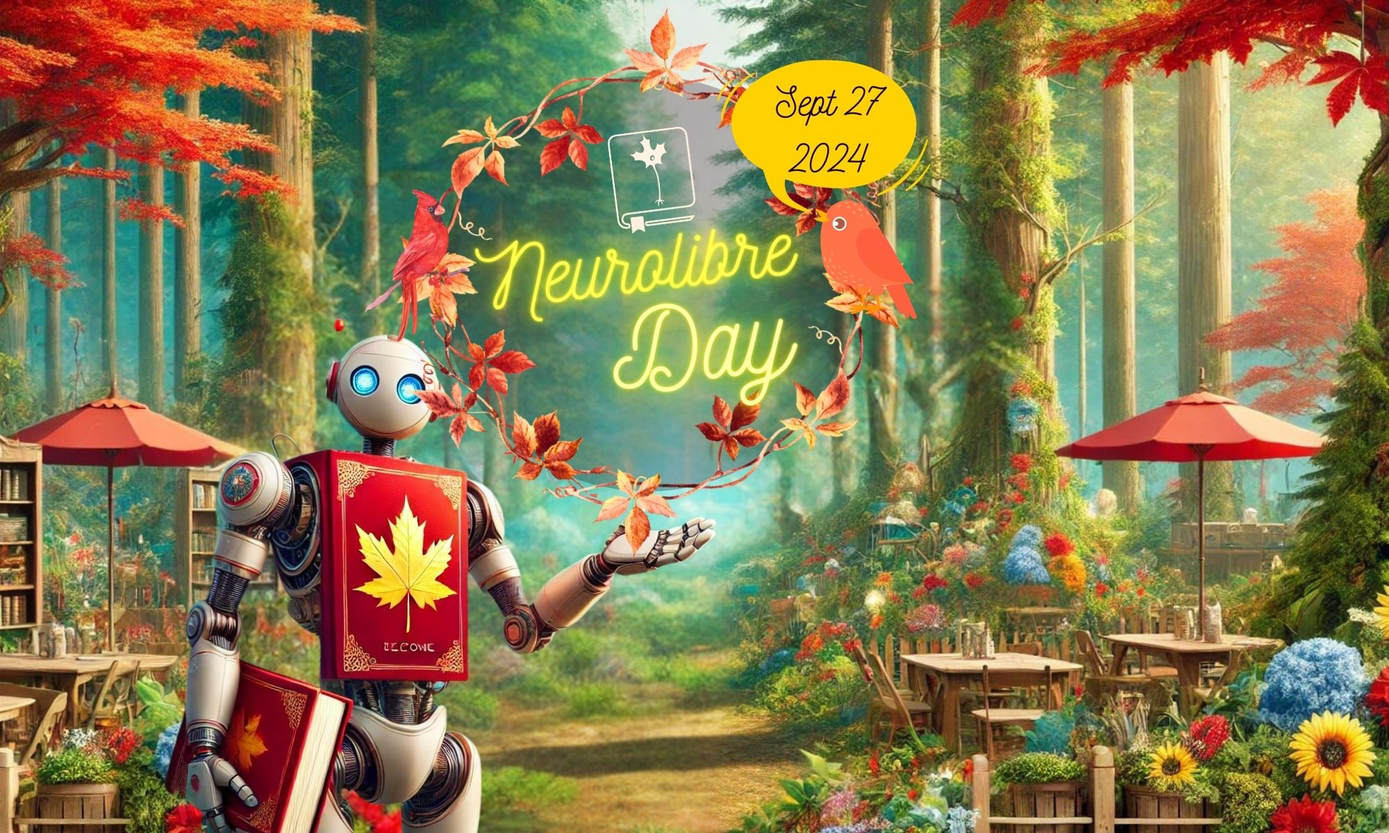
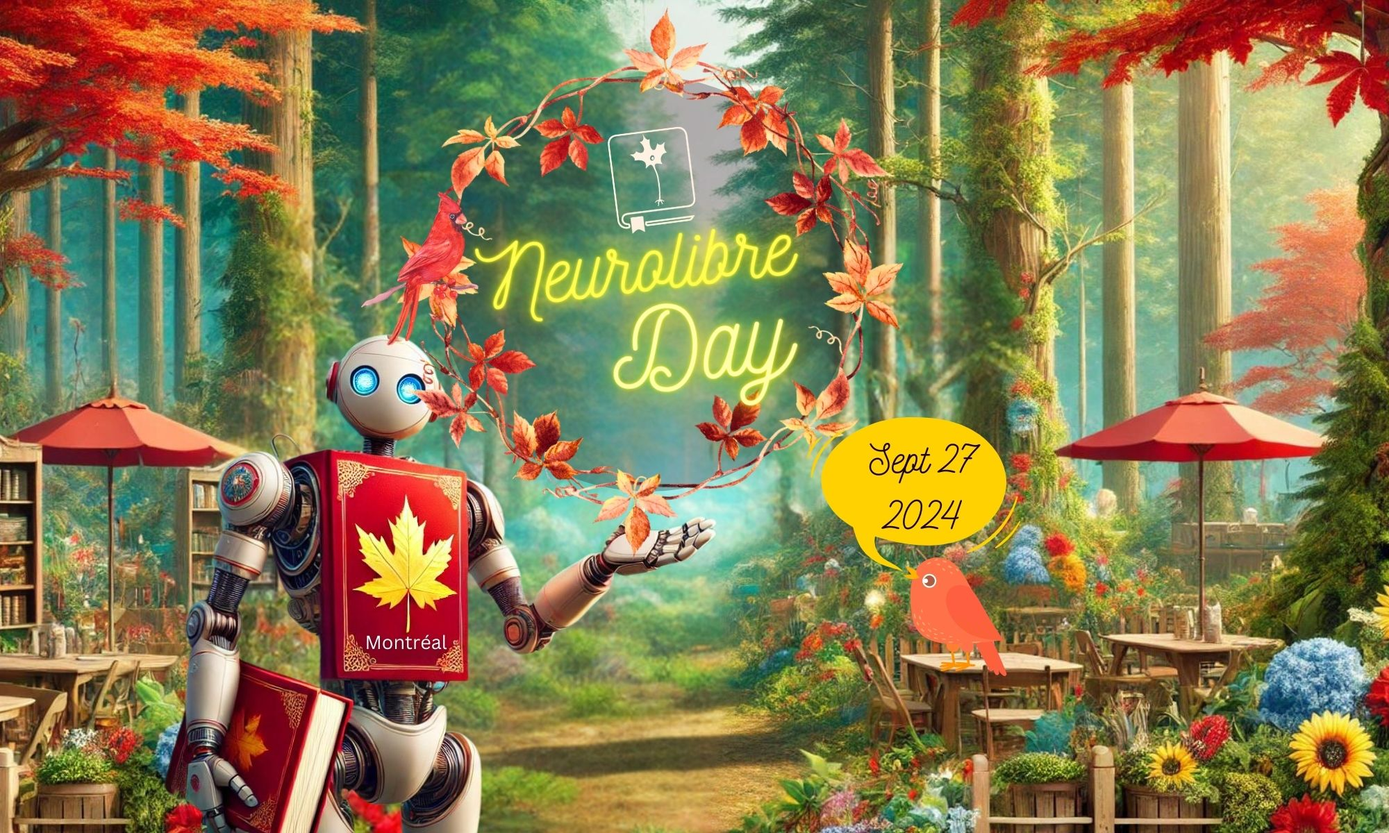
details

diff --git a/stylesheets/css/base.css b/stylesheets/css/base.css
@@ -365,7 +365,7 @@ span.lineno {
 .gd { color: #f92672; } /* Generic.Deleted & Diff Deleted */
 .gi { color: #a6e22e; } /* Generic.Inserted & Diff Inserted */
 
-#intro{background-image: url("https://github.com/mrathon/singapore2024/blob/master/img/mrathon_new.jpg?raw=true") !important;
+#intro{background-image: url("https://github.com/neurolibre/day/blob/master/img/mrathon_new.jpg?raw=true") !important;
 	background-size: cover;
 	background-position: center;
 	height: 100vh;

diff --git a/stylesheets/_sass/_custom.sass b/stylesheets/_sass/_custom.sass
@@ -8,7 +8,7 @@
       min-width: 80px
       float: none
   nav
-    background-color: red
+    background-color: darkred
   #activities
     .icon img
       width: 55%

diff --git a/_posts/2000-01-02-activities.md b/_posts/2000-01-02-activities.md
@@ -1,15 +1,15 @@
 ---
 title: "About"
-bg: clrnew
-color: about
+bg: neuro
+color: clrnew
 fa-icon: info-circle
-iconclr: '#428bca'
-titleclr: '#428bca'
+iconclr: neuro
+titleclr: neuro
 ---
 
-# A hackathon for increasing MRI accessibility
+# NeuroLibre Day
 
-### 2-3 May 2024
+### 27 September 2024
 
 <p style ="text-align: center; font-weight: bold; font-size:24px;"> We organized MRathon 2024 in collaboration with the <a href="https://ezymri-nerdfest.sciencesconf.org/" style="color:blue;"> ezyMRI NerdFest </a>, focusing on the increasing the accessibility of MRI through open-source and vendor-neutral pulse sequence programming.</p>
 
